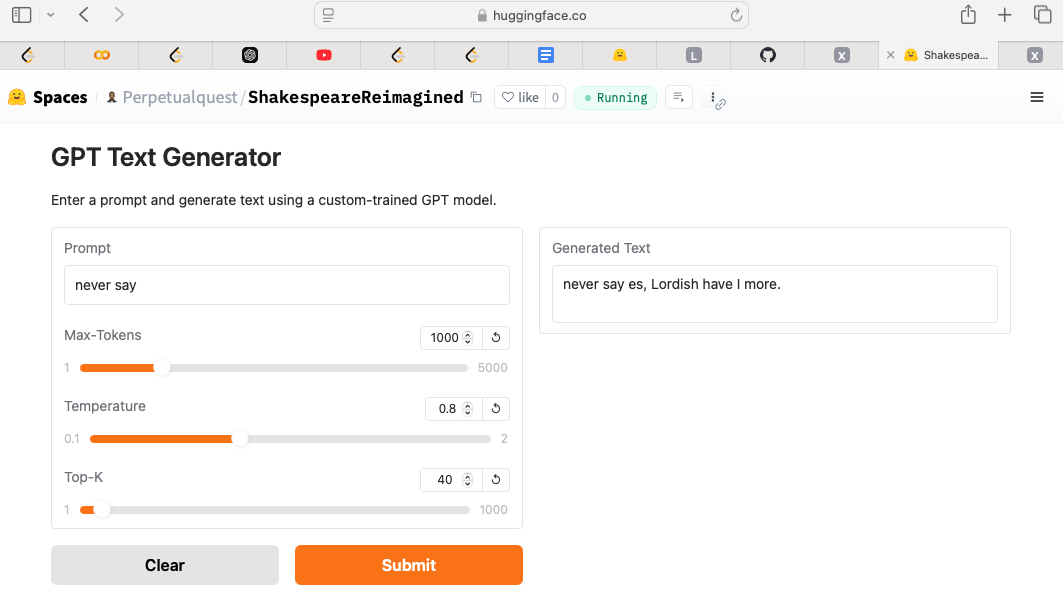
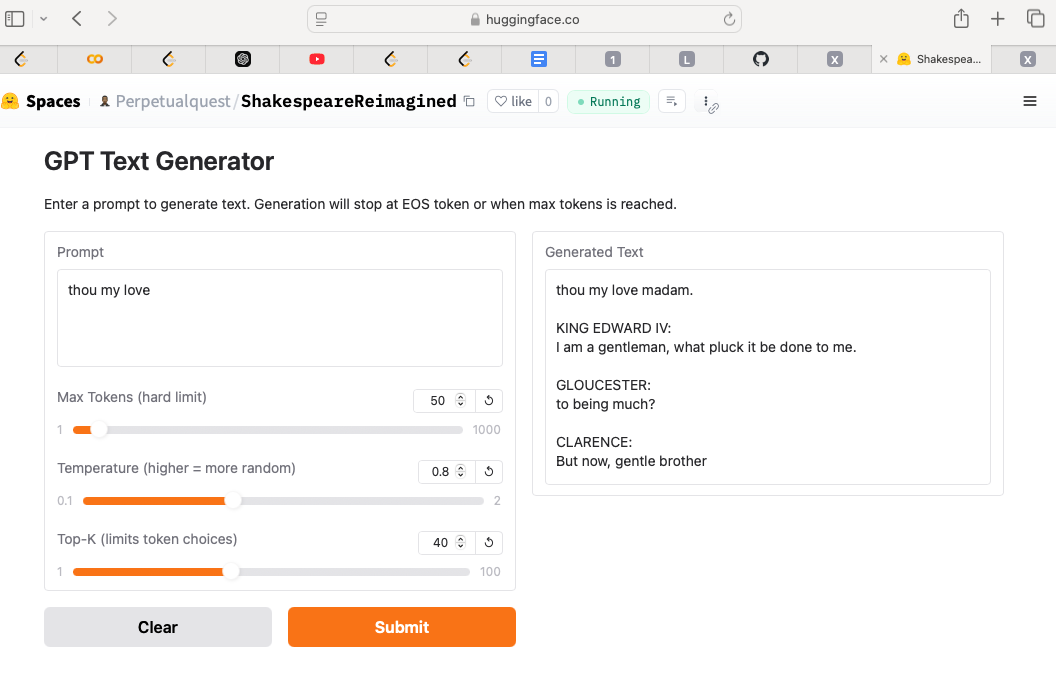
corrected EOS issue

diff --git a/Assignment_12/app.py b/Assignment_12/app.py
@@ -39,8 +39,8 @@ def generate_text(prompt, max_tokens=500, temperature=0.8, top_k=40):
             output_sequence.append(next_token.item())
             input_ids = torch.cat([input_ids, next_token], dim=1)
             
-            # Stop if we generate a newline
-            if next_token.item() == enc.encode('\n')[0]:
+            # Stop if we generate an EOS token (50256 for GPT-2 tokenizer)
+            if next_token.item() == 50256:
                 break
     
     # Decode and return the generated text
@@ -51,14 +51,14 @@ def generate_text(prompt, max_tokens=500, temperature=0.8, top_k=40):
 iface = gr.Interface(
     fn=generate_text,
     inputs=[
-        gr.Textbox(label="Prompt", placeholder="Enter your prompt here..."),
-        gr.Slider(minimum=1, maximum=5000, value=1000, step=1, label="Max-Tokens"),
-        gr.Slider(minimum=0.1, maximum=2.0, value=0.8, step=0.1, label="Temperature"),
-        gr.Slider(minimum=1, maximum=1000, value=40, step=1, label="Top-K")
+        gr.Textbox(label="Prompt", placeholder="Enter your prompt here...", lines=4),
+        gr.Slider(minimum=1, maximum=1000, value=100, step=1, label="Max Tokens (hard limit)"),
+        gr.Slider(minimum=0.1, maximum=2.0, value=0.8, step=0.1, label="Temperature (higher = more random)"),
+        gr.Slider(minimum=1, maximum=100, value=40, step=1, label="Top-K (limits token choices)")
     ],
-    outputs=gr.Textbox(label="Generated Text"),
+    outputs=gr.Textbox(label="Generated Text", lines=10),
     title="GPT Text Generator",
-    description="Enter a prompt and generate text using a custom-trained GPT model."
+    description="Enter a prompt to generate text. Generation will stop at EOS token or when max tokens is reached."
 )
 
 if __name__ == "__main__":
